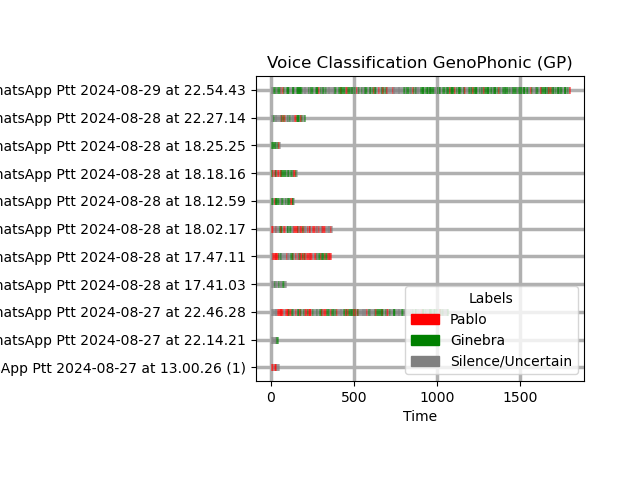
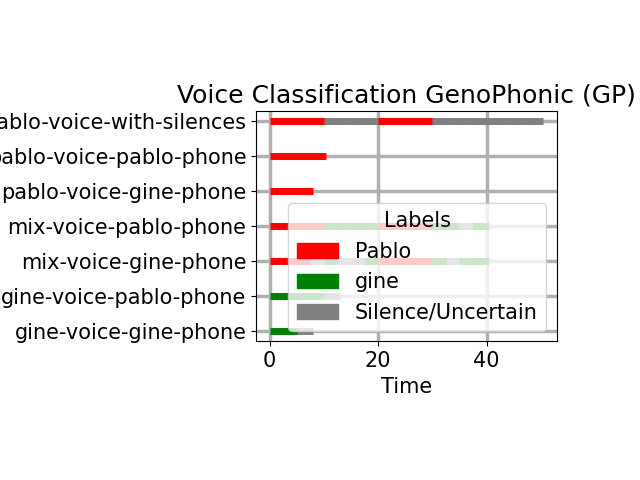
figures

Changed region(s): [[0.0, 0.0938, 1.0, 0.875]]

diff --git a/src/utils.py b/src/utils.py
@@ -26,8 +26,66 @@ def convert_to_list(value):
         return value.tolist()
     return value
 
+
+def plot_predicted_and_spectrogram(filepath, processed_dir, data_dict, save_plot_dir, 
+                                   label_names={0: 'Pablo', 1: 'Ginebra', -1:'Silence/Uncertain'},
+                                   sr=16000, hop_length=512):
+
+    font_size = 15
+    # Load the mel spectrogram
+    features = np.load(os.path.join(processed_dir, filepath + '.npy'))
+    
+    # Calculate the time in seconds for each frame
+    num_frames = features.shape[1]
+    time_in_seconds = np.arange(num_frames) * hop_length / sr
+    
+    # Set font sizes
+    plt.rcParams.update({'font.size': font_size})
+    
+    # Create a figure and axis
+    fig, (ax1, ax2) = plt.subplots(2, 1, figsize=(10, 8), gridspec_kw={'height_ratios': [0.5, 0.9]})
+
+    # Define colors for labels
+    colors = {-1: 'gray', 0: 'red', 1: 'green', 2: 'blue', 3: 'purple', 4: 'orange', 5: 'cyan'}
+    # Get indices where filename matches
+    indices = [i for i, fname in enumerate(data_dict['file']) if fname == filepath]
+    
+    # Plot each window for this file
+    for idx in indices:
+        start_time = data_dict['time_start'][idx]
+        end_time = data_dict['time_end'][idx]
+        label = data_dict['predicted'][idx]
+        
+        # Draw a horizontal line for each window
+        ax1.hlines(y=filepath, xmin=start_time, xmax=end_time, color=colors[label], linewidth=200)
+        
+    ax1.set_xticks([])
+    ax1.set_ylabel('Predicted speaker', fontsize=font_size)
+    ax1.set_title(f'Voice Classification GenoPhonic (GP)\n File: {filepath}', fontsize=font_size)
+    ax1.set_yticks([0])  # Only one file, so one tick
+    ax1.set_yticklabels([])
+    ax1.grid(True, linewidth=2.5)
+    ax1.set_xlim(0, time_in_seconds[-1])
+
+    # Create custom legend
+    handles = [matplotlib.patches.Patch(color=colors[label], label=label_names[label]) for label in label_names]
+    ax1.legend(handles=handles, title='Labels', loc='lower right', fontsize=font_size)
+
+    # Plot the mel spectrogram for the selected prediction
+    img = ax2.imshow(features, aspect='auto', origin='lower', cmap='inferno', extent=[0, time_in_seconds[-1], 0, features.shape[0]])
+    ax2.set_xlabel('Time (s)', fontsize=font_size)
+    ax2.set_ylabel('Mel Spectrogram Frequency', fontsize=font_size)
+
+    # Adjust layout to avoid overlapping
+    plt.tight_layout()
+    cbar = fig.colorbar(img, ax=ax2, orientation='horizontal', format='%+2.0f dB')
+    cbar.ax.tick_params(labelsize=font_size)
+
+    # Save the plot
+    plt.savefig(save_plot_dir)
+
+
 def plot_predicted_windows(data_dict, save_plot_dir, label_names={0: 'Pablo', 1: 'Ginebra', -1:'Silence/Uncertain'}):
-    # Enable grid
     # Create a figure and axis
     fig, ax = plt.subplots()
 
@@ -50,6 +108,7 @@ def plot_predicted_windows(data_dict, save_plot_dir, label_names={0: 'Pablo', 1:
             
             # Draw a horizontal line for each window
             ax.hlines(y=file, xmin=start_time, xmax=end_time, color=colors[label], linewidth=5)
+
 
     # Set labels and title
     ax.set_xlabel('Time')
@@ -108,13 +167,12 @@ def label_dataset(chat_file, labels_file, speakernames):
 
 
 def convert_to_wav(input_folder):
+    output_folder = input_folder + '-wav'
+    if os.path.exists(output_folder):
+        print('Wav files already exists')
+        return
     if not os.path.exists(input_folder):
         raise FileNotFoundError('Data folder not found')
-    output_folder = input_folder + '-wav'
-    # if the output folder exists, skip the conversion process
-    if os.path.exists(output_folder):
-        print('Wav files already exist')
-        return
     # Create the processed directory if it doesn't exist
     if not os.path.exists(output_folder):
         os.makedirs(output_folder)

diff --git a/src/train.py b/src/train.py
@@ -10,7 +10,7 @@ from sklearn.model_selection import train_test_split
 from dataset import GPDataset
 # from model import GPClassifier
 from model import ASTModel
-from utils import set_seed, label_dataset, convert_to_wav, convert_to_mel_spectrogram, convert_to_list, plot_predicted_windows
+from utils import set_seed, plot_predicted_and_spectrogram, label_dataset, convert_to_wav, convert_to_mel_spectrogram, convert_to_list, plot_predicted_windows
 
 def train(model, train_loader, criterion, optimizer, device):
     model.train()
@@ -194,16 +194,21 @@ def main(
     for speakername in speakernames:
         print(f'{speakername:s} spoke {speakername_counts[speakername] / total_speakername_counts * 100:.2f} % of times')
     
+    label_names = {speakernames.index(speakername): speakername for speakername in speakernames}
+    label_names[-1] = 'Silence/Uncertain'
     # order the dict by counts
     if labels_file is not None:
         incorrect_files = {k: v for k, v in sorted(incorrect_files.items(), key=lambda item: item[1], reverse=True)}
         print('Incorrectly predicted files (ten first values):')
         print({k: incorrect_files[k] for k in list(incorrect_files)[:10]})
         print(f'Number of incorrectly predicted files: {len(incorrect_files)}')
+    # if labels_file is None:
+    #     save_plot_dir = os.path.join(script_dir, f'../images/{dataset_name}-spectrogram-predicted.png')
+    #     file_path = 'mix-voice-pablo-phone'
+    #     plot_predicted_and_spectrogram(file_path, processed_dir, additional_info_complete, save_plot_dir, label_names=label_names)
+        
     
     save_plot_dir = os.path.join(script_dir, f'../images/{dataset_name}-predicted.png')
-    label_names = {speakernames.index(speakername): speakername for speakername in speakernames}
-    label_names[-1] = 'Silence/Uncertain'
     plot_predicted_windows(additional_info_complete, save_plot_dir, label_names=label_names)
     
         

diff --git a/README.md b/README.md
@@ -31,6 +31,7 @@ First, create a new Conda environment to manage the dependencies for this projec
 ```bash
 conda env create -f environment.yml
 conda activate gp
+cd src
 ```
 
 ### 2. Install FFmpeg
@@ -49,9 +50,28 @@ This project requires FFmpeg to convert OPUS files to WAV format. Please install
 Run the following command to train the model with the provided data:
 
 ```bash
-python src/train.py  --audio_dir path/to/audio_dir_training --labels_name ['speaker1', 'speaker2']
+python train.py  --audio_dir path/to/audio_dir_training/from/src --labels_name ['speaker1', 'speaker2']
 ```
-There are other optional arguments you can use to customize the training process. Run `python src/train.py --help` to see them.
+
+For example, if you have a folder called `data` with the following structure:
+```
+data
+├── training
+│   ├── audio1.opus
+│   ├── audio2.opus
+│   └── ...
+└── testing
+    ├── audio1.opus
+    ├── audio2.opus
+    └── ...
+```
+
+You would run:
+```bash
+python train.py  --audio_dir ../data/training --labels_name ['speaker1', 'speaker2']
+```
+
+There are other optional arguments you can use to customize the training process. Run `python train.py --help` to see them.
 
 You will see the accuracy of the model on the training and validation sets. The model will be saved in the `models` folder.
 
@@ -59,7 +79,7 @@ You will see the accuracy of the model on the training and validation sets. The 
 Run the following command to test the model with the provided data:
 
 ```bash
-python src/test.py  --audio_dir path/to/audio_dir_testing'
+python test.py  --audio_dir path/to/audio_dir_testing/from/src'
 ```
 You will see how much each speaker spoke relative to the total, and images with visualizations of the model's predictions will be saved.
 
